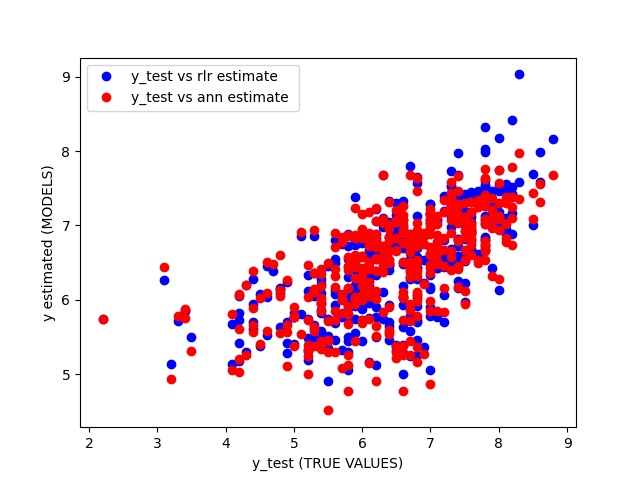
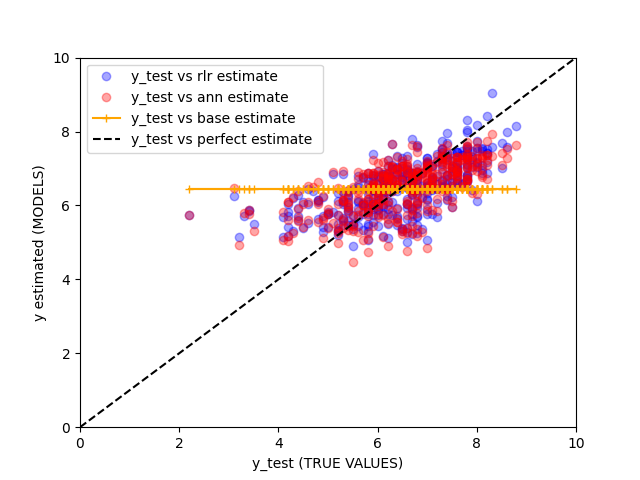
2c done

diff --git a/Project_code/cross_validation.py b/Project_code/cross_validation.py
@@ -526,7 +526,7 @@ def sub_cross_validate_ann(X, y, hidden_unit_options, partition, K=10, max_iter=
                                          y=y_train_tensor,
                                          n_replicates=n_replicates,
                                          max_iter=max_iter)
-    ann_y_test_est = opt_net(X_test_tensor).data.numpy().reshape(y_test.shape) # .T
+    ann_y_test_est = opt_net(X_test_tensor).data.numpy().reshape(y_test.shape)  # .T
     return opt_hu, ann_y_test_est
 
 
@@ -538,8 +538,8 @@ def cross_validate_model_comparison(X, y, lambdas, hidden_unit_options, K=10):
     CV = model_selection.KFold(n_splits=K, shuffle=True)
 
     baseline_test_errors = np.empty((K, 1))
-    opt_lambda_lst, rlr_test_errors = np.empty((K, 1)), np.empty((K, 1))
-    opt_n_hu, ann_test_errors = np.empty((K, 1)), np.empty((K, 1))
+    opt_lambda_lst, rlr_test_errors = [0] * K, [0] * K
+    opt_n_hu, ann_test_errors = [0] * K, [0] * K
 
     """
     mu = np.empty((K, M_rlr - 1))
@@ -556,7 +556,7 @@ def cross_validate_model_comparison(X, y, lambdas, hidden_unit_options, K=10):
         rlr_se = np.square(y_test - rlr_y_test_est).sum(axis=0)
         rlr_test_errors[k] = rlr_se / y_test.shape[0]
 
-        opt_n_hu[k], ann_y_test_est = sub_cross_validate_ann(X, y, hidden_unit_options, partition, K=K)
+        opt_n_hu[k], ann_y_test_est = sub_cross_validate_ann(X, y, hidden_unit_options, partition, K=K, max_iter=5000)
         ann_se = np.square(ann_y_test_est - y_test).sum()  # squared error
 
         ann_test_errors[k] = ann_se / y_test.shape[0]  # Divide by number of observations
@@ -575,45 +575,104 @@ def plot_models(X, y, opt_hidden_units, opt_lambda, K=10):
 
     train_index, test_index = list(ss.split(X))[0]
     partition = (train_index, test_index)
-    rlr_err, yhatA = sub_cross_validate_rlr(X, y, lambdas=[opt_lambda], partition=partition, K=K)
-    ann_err, yhatB = sub_cross_validate_ann(X, y, hidden_unit_options=[opt_hidden_units], partition=partition, K=K, max_iter=10000)
+    rlr_err, yhatRLR = sub_cross_validate_rlr(X, y, lambdas=[opt_lambda], partition=partition, K=K)
+    ann_err, yhatANN = sub_cross_validate_ann(X, y, hidden_unit_options=[opt_hidden_units], partition=partition, K=K,
+                                              max_iter=10000)
+    y_train = y[train_index]
     y_test = y[test_index]
+    yhatBASE = y_train.mean(axis=0) * np.ones(np.shape(y_test))
 
-    plot(y_test,yhatA,'bo',alpha=0.35)
-    plot(y_test,yhatB,'ro',alpha=0.35)
+    plot(y_test, yhatRLR, 'bo', alpha=0.35)  # RLR
+    plot(y_test, yhatANN, 'ro', alpha=0.35)  # ANN
+    plot(y_test, yhatBASE, '+-', color="orange")  # BASE
+    plt.plot([0, 10], [0, 10], 'k--', )  # "PERFECT"
     xlabel("y_test (TRUE VALUES)")
     ylabel("y estimated (MODELS)")
-    legend(["y_test vs rlr estimate ","y_test vs ann estimate "],loc="best")
+    legend(["y_test vs {} estimate ".format(model_name) for model_name in ["rlr", "ann", "base", "perfect"]],
+           loc="best")
+    plt.xlim(0, 10)
+    plt.ylim(0, 10)
+    show()
+
+    # 2 subplots:
+    figure(1, figsize=(12, 8))
+    subplot(1, 2, 1)
+    plot(y_test, yhatRLR, 'bo')
+    plt.plot([0, 10], [0, 10], 'k--', )  # "PERFECT"
+    legend(["y_test vs RLR model", "Perfect line"])
+    xlabel('y_test')
+    ylabel('RLR esimate')
+    plt.xlim(0, 10)
+    plt.ylim(0, 10)
+    grid()
+
+    subplot(1, 2, 2)
+    # title('Optimal lambda: 1e{0}'.format(np.log10(opt_lambda)))
+    plot(y_test, yhatANN, 'ro')
+    plt.plot([0, 10], [0, 10], 'k--', )  # "PERFECT"
+    legend(["y_test vs ANN model", "Perfect line"])
+    xlabel('y_test')
+    ylabel('ANN esimate')
+    # legend(['Train error', 'Validation error'])
+    plt.xlim(0, 10)
+    plt.ylim(0, 10)
+    grid()
     show()
 
 
 def statistic_comparison(X, y, opt_hidden_units, opt_lambda, K=10):
-    test_proportion = 0.2
-
     ss = ShuffleSplit(n_splits=1, test_size=0.2, random_state=0)
 
     train_index, test_index = list(ss.split(X))[0]
     partition = (train_index, test_index)
-    _, yhatA = sub_cross_validate_rlr(X, y, lambdas=[opt_lambda], partition=partition, K=K)
-    _, yhatB = sub_cross_validate_ann(X, y, hidden_unit_options=[opt_hidden_units], partition=partition, K=K, max_iter=10000)
-
-    # X_test = X[test_index]
     y_test = y[test_index]
+    y_train = y[train_index]
+
+    _, yhatRLR = sub_cross_validate_rlr(X, y, lambdas=[opt_lambda], partition=partition, K=K)
+    _, yhatANN = sub_cross_validate_ann(X, y, hidden_unit_options=[opt_hidden_units], partition=partition, K=K,
+                                        max_iter=10000)
+    yhatBASE = y_train.mean(axis=0) * np.ones(np.shape(y_test))
 
     # perform statistical comparison of the models
     # compute z with squared error.
-    zA = np.abs(y_test - yhatA) ** 2
+    zRLR = np.abs(y_test - yhatRLR) ** 2
 
     # compute confidence interval of model A
     alpha = 0.05
-    CIA = st.t.interval(1 - alpha, df=len(zA) - 1, loc=np.mean(zA), scale=st.sem(zA))  # Confidence interval
+    # CIA = st.t.interval(1 - alpha, df=len(zA) - 1, loc=np.mean(zA), scale=st.sem(zA))  # Confidence interval
 
     # Compute confidence interval of z = zA-zB and p-value of Null hypothesis
-    zB = np.abs(y_test - yhatB) ** 2
-    z = zA - zB
-    CI = st.t.interval(1 - alpha, len(z) - 1, loc=np.mean(z), scale=st.sem(z))  # Confidence interval
-    p = 2 * st.t.cdf(-np.abs(np.mean(z)) / st.sem(z), df=len(z) - 1)  # p-value
+    zANN = np.abs(y_test - yhatANN) ** 2
+
+    zBASE = np.abs(y_test - yhatBASE) ** 2
+    #
+    z_dict = {
+        "RLRvANN": zRLR - zANN,
+        "RLRvBASE": zRLR - zBASE,
+        "ANNvBASE": zANN - zBASE
+    }
+
+    # Z:
+    Z_hat = {}
+    for key, value in z_dict.items():
+        Z_hat[key] = np.mean(value)
+
+    # Confidence interval
+    CIs = {}
+    for key, value in z_dict.items():
+        CIs[key] = st.t.interval(1 - alpha, len(value) - 1, loc=np.mean(value), scale=st.sem(value))
+    """
+        "RLRvANN" : ,
+        "RLRvBASE" : st.t.interval(1 - alpha, len(zRLR_v_BASE) - 1, loc=np.mean(zRLR_v_BASE), scale=st.sem(zRLR_v_BASE)),
+        "ANNvBASE" : st.t.interval(1 - alpha, len(zANN_v_BASE) - 1, loc=np.mean(zANN_v_BASE), scale=st.sem(zANN_v_BASE))
+    """
+
+    p_dict = {}
+    for key, value in z_dict.items():
+        p_dict[key] = 2 * st.t.cdf(-np.abs(np.mean(value)) / st.sem(value), df=len(value) - 1)  # p-value
     print(f"- - - - -\n"
-          f"{CI = }\n"
-          f"{p = }"
+          f"{z_dict = }\n"
+          f"{Z_hat = }\n"
+          f"{CIs = }\n"
+          f"{p_dict = }"
           f"- - - - -\n")

diff --git a/Project_code/part2_main.py b/Project_code/part2_main.py
@@ -166,8 +166,8 @@ def regression_a(df: pd.DataFrame):
         # traverse backwards to avoid the problem of deleting from an array that is being iterated through
         del feature_names[idx]
     print(f"{feature_names = }, {X_feat_selected.shape = }")
-    lambdas = np.power(10., np.arange(-5, 4, 1))
-
+    lambdas = np.power(10., np.arange(-15, 4, 2))
+    print(f"{lambdas = }")
     # np.array([10 ** -5, 10 ** -3, 10 ** -1, 10 ** 0, 10 ** 1, 10 ** 2, 10 ** 3, 10 ** 4])
     # cross_validate_lambda(X_feat_selected, y_no_0, 10, feature_names, lambdas)
     return X_feat_selected, y_no_0, feature_names
@@ -185,8 +185,8 @@ def regression_b(X, y, feature_names):
         N, M = X.shape
         feature_names = ["PC {}".format(i) for i in range(3)]
     # cross_validate_ann(X, y, 5, feature_names)
-    lambdas = np.power(10., np.arange(-5, 4, 1))
-    hidden_unit_options = [1, 20]
+    lambdas = np.power(10., np.arange(-3, 3, 1))
+    hidden_unit_options = [16, 18, 20, 22, 24]  # [1, 20]
     # [5, 10, 20, 30] <-- Actual options used in the report
     """
     xt = np.array([np.random.random_integers(0,20,10),np.random.random_integers(10,40,10)])
@@ -194,15 +194,40 @@ def regression_b(X, y, feature_names):
     """
     K = 5
     # print(optimal_hidden_unit_ann(X, y, hidden_unit_options, cvf=5))
-    # model_comparison_dict = (cross_validate_model_comparison(X, y, lambdas, hidden_unit_options, K=K))
-    # statistic_comparison(X, y, 20, 1, K=2)
-    plot_models(X,y,1,20,K=3)
+    if False:
+        model_comparison_dict = (cross_validate_model_comparison(X, y, lambdas, hidden_unit_options, K=K))
+        pprint(model_comparison_dict)
+
+        # --
+        # RLR
+        rlr_result = model_comparison_dict["RLR"]
+        opt_lambdas_lst = list(zip(*rlr_result))[0]
+        opt_lambdas_lst = [lamb for lamb in opt_lambdas_lst]
+        # ANN
+        ann_result = model_comparison_dict["ANN"]
+        opt_hu_lst = list(zip(*ann_result))[0]
+        opt_hu_lst = [hu for hu in opt_hu_lst]
+
+        def most_frequent(input_lst):
+            # https://www.geeksforgeeks.org/python-find-most-frequent-element-in-a-list/
+            return max(set(input_lst), key=input_lst.count)
+
+        opt_lambda = most_frequent(opt_lambdas_lst)
+        opt_hu = most_frequent(opt_hu_lst)
+
+        print(f"{opt_hu = }\n"
+              f"{opt_lambda = }")
+    K = 2
+    opt_hu = 24
+    opt_lambda = 1
+    statistic_comparison(X, y, opt_hu, opt_lambda, K=K)
+    plot_models(X, y, 1, 20, K=2)
 
 
 if __name__ == '__main__':
-    """ Movie data part:"""
+    """ Movie data part :"""
     # write_filtered_and_movie_metadata_to_file()
     df_movies = pd.read_csv("collected_movie_data.csv", sep="\t", dtype=str)
     X, y, feats = regression_a(df_movies)
 
-    regression_b(X, y, feats)
+    # regression_b(X, y, feats)
